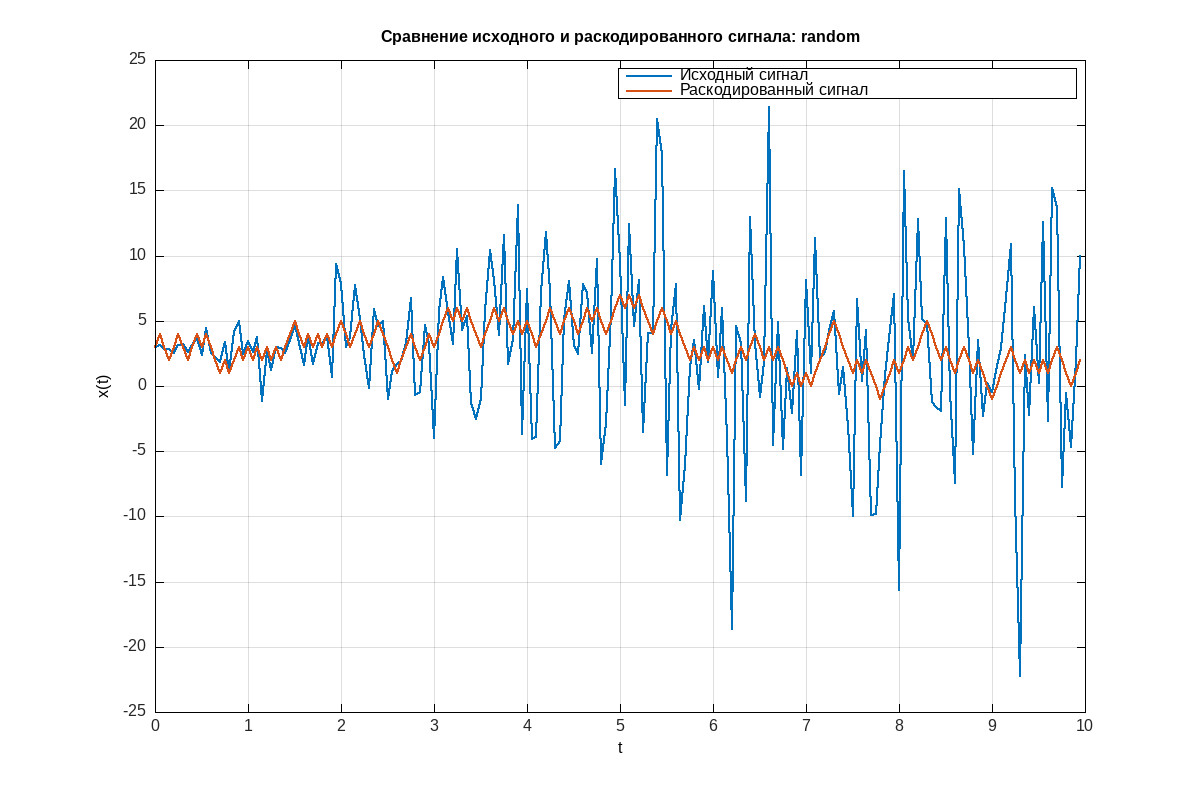
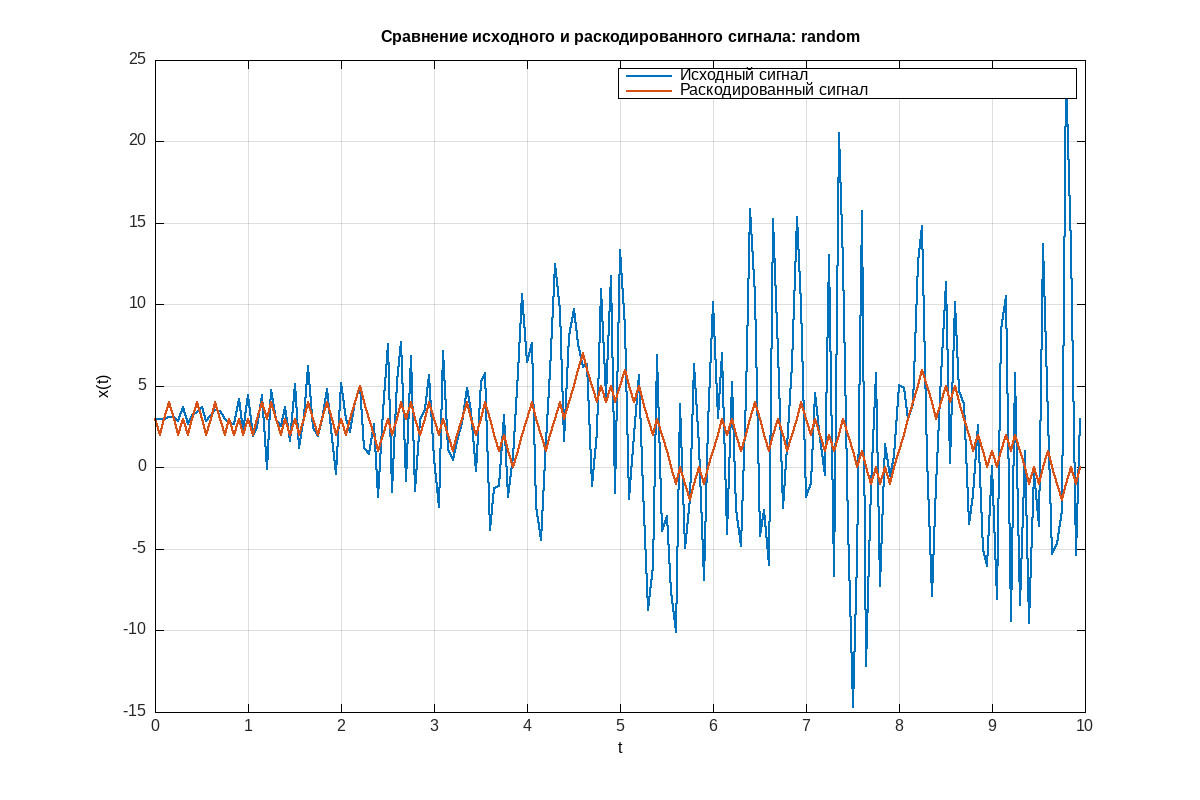
add calc time for encoding and decoding

diff --git a/cpp/src/drawing/drawer.cpp b/cpp/src/drawing/drawer.cpp
@@ -1,6 +1,8 @@
 #include "drawer.hpp"
 #include "metrics/metrics.hpp"
 
+#include <chrono>
+
 namespace adaptive{
 
 cv::Mat Drawer::color_matrices_to_cv_mat(
@@ -302,14 +304,26 @@ void Drawer::draw_image_zooming(const ColorImageMatrices& original_values){
     ImageCoder coder(adaptive_config, observer_config);
     ImageDecoder decoder(adaptive_config, observer_config);
 
-    const auto encoded_values =
-        coder.encode_zooming(original_values);
+    const auto encode_start = std::chrono::steady_clock::now();
+
+    const auto encoded_values = coder.encode_zooming(original_values);
+
+    const auto encode_end = std::chrono::steady_clock::now();
 
     std::size_t total_encoded_size = Metrics::encoded_color_image_size_bytes(encoded_values);
     std::cerr << "Total encoded size is : " << total_encoded_size << "\n";
 
-    const auto decoded_values =
-        decoder.decode_zooming(encoded_values);
+    const auto decode_start = std::chrono::steady_clock::now();
+
+    const auto decoded_values = decoder.decode_zooming(encoded_values);
+
+    const auto decode_end = std::chrono::steady_clock::now();
+
+    const double encoding_time_ms = std::chrono::duration<double, std::milli>(encode_end - encode_start).count();
+    const double decoding_time_ms = std::chrono::duration<double, std::milli>(decode_end - decode_start).count();
+
+    std::cout << "Encoding time: " << encoding_time_ms << " ms\n";
+    std::cout << "Decoding time: " << decoding_time_ms << " ms\n";
 
     long double mse = Metrics::calc_mse(original_values, decoded_values);
     std::cerr << "MSE: " << mse << "\n\n";
@@ -351,14 +365,26 @@ void Drawer::draw_image_fixed(const ColorImageMatrices& original_values){
     ImageCoder coder(adaptive_config, observer_config);
     ImageDecoder decoder(adaptive_config, observer_config);
 
-    const auto encoded_values =
-        coder.encode_fixed(original_values);
+    const auto encode_start = std::chrono::steady_clock::now();
+
+    const auto encoded_values = coder.encode_fixed(original_values);
+
+    const auto encode_end = std::chrono::steady_clock::now();
 
     std::size_t total_encoded_size = Metrics::encoded_color_image_size_bytes(encoded_values);
     std::cerr << "Total encoded size is : " << total_encoded_size << "\n";
 
-    const auto decoded_values =
-        decoder.decode_fixed(encoded_values);
+    const auto decode_start = std::chrono::steady_clock::now();
+
+    const auto decoded_values = decoder.decode_fixed(encoded_values);
+
+    const auto decode_end = std::chrono::steady_clock::now();
+
+    const double encoding_time_ms = std::chrono::duration<double, std::milli>(encode_end - encode_start).count();
+    const double decoding_time_ms = std::chrono::duration<double, std::milli>(decode_end - decode_start).count();
+
+    std::cout << "Encoding time: " << encoding_time_ms << " ms\n";
+    std::cout << "Decoding time: " << decoding_time_ms << " ms\n";
 
     long double mse = Metrics::calc_mse(original_values, decoded_values);
     std::cerr << "MSE: " << mse << "\n\n";
@@ -400,14 +426,26 @@ void Drawer::draw_image_grow_factor(const ColorImageMatrices& original_values){
     ImageCoder coder(adaptive_config, observer_config);
     ImageDecoder decoder(adaptive_config, observer_config);
 
-    const auto encoded_values =
-        coder.encode_grow_factor(original_values);
+    const auto encode_start = std::chrono::steady_clock::now();
+
+    const auto encoded_values = coder.encode_grow_factor(original_values);
+
+    const auto encode_end = std::chrono::steady_clock::now();
 
     std::size_t total_encoded_size = Metrics::encoded_color_image_size_bytes(encoded_values);
     std::cerr << "Total encoded size is : " << total_encoded_size << "\n";
 
-    const auto decoded_values =
-        decoder.decode_grow_factor(encoded_values);
+    const auto decode_start = std::chrono::steady_clock::now();
+
+    const auto decoded_values = decoder.decode_grow_factor(encoded_values);
+
+    const auto decode_end = std::chrono::steady_clock::now();
+
+    const double encoding_time_ms = std::chrono::duration<double, std::milli>(encode_end - encode_start).count();
+    const double decoding_time_ms = std::chrono::duration<double, std::milli>(decode_end - decode_start).count();
+
+    std::cout << "Encoding time: " << encoding_time_ms << " ms\n";
+    std::cout << "Decoding time: " << decoding_time_ms << " ms\n";
     
     long double mse = Metrics::calc_mse(original_values, decoded_values);
     std::cerr << "MSE: " << mse << "\n\n";
